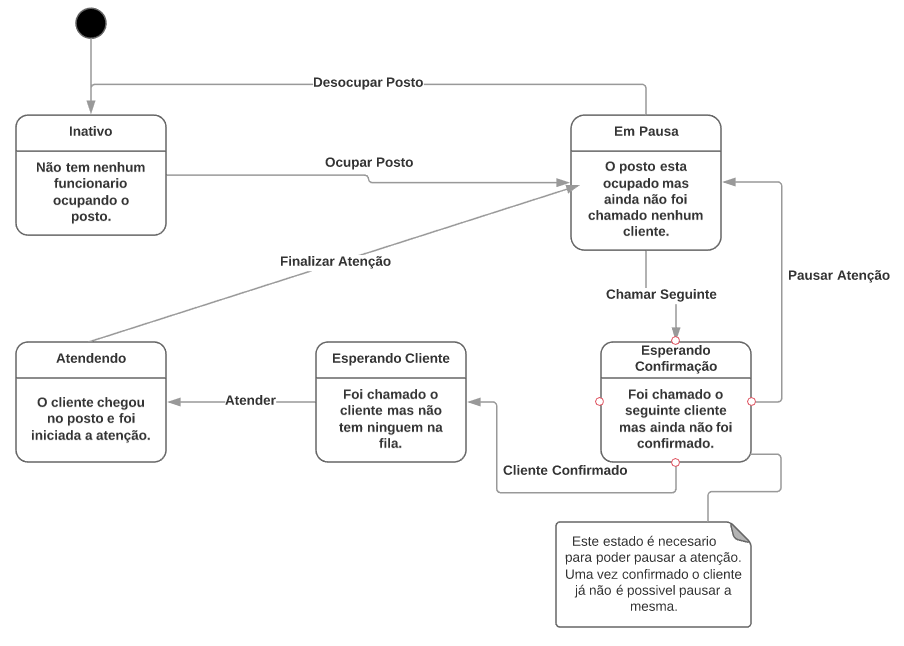
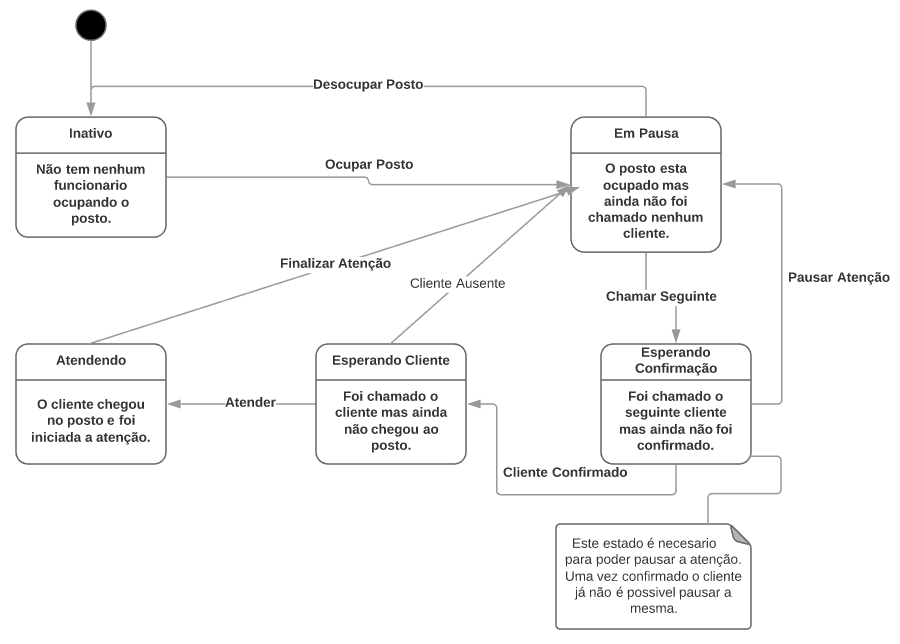
É adicionado o diagrama de estado dos turnos.

diff --git a/README.md b/README.md
@@ -25,9 +25,12 @@ a realizar para transitar de um estado a outro.
 
 [estados_posto]: https://raw.githubusercontent.com/sebasgoldberg/filav/master/docs/estados-postos.png "Diagrama de Estados Postos"
 
-A continuação ficam definidos os estados em que poderia estar um cliente e as operações
+A continuação ficam definidos os estados em que poderia estar um turno e as operações
 a realizar para transitar de um estado a outro.
 
+![Diagrama de Estados Turno][estados_posto]
+
+[estados_posto]: https://raw.githubusercontent.com/sebasgoldberg/filav/master/docs/estados-turno.png "Diagrama de Estados Turno"
 
 ### Frontend
 
